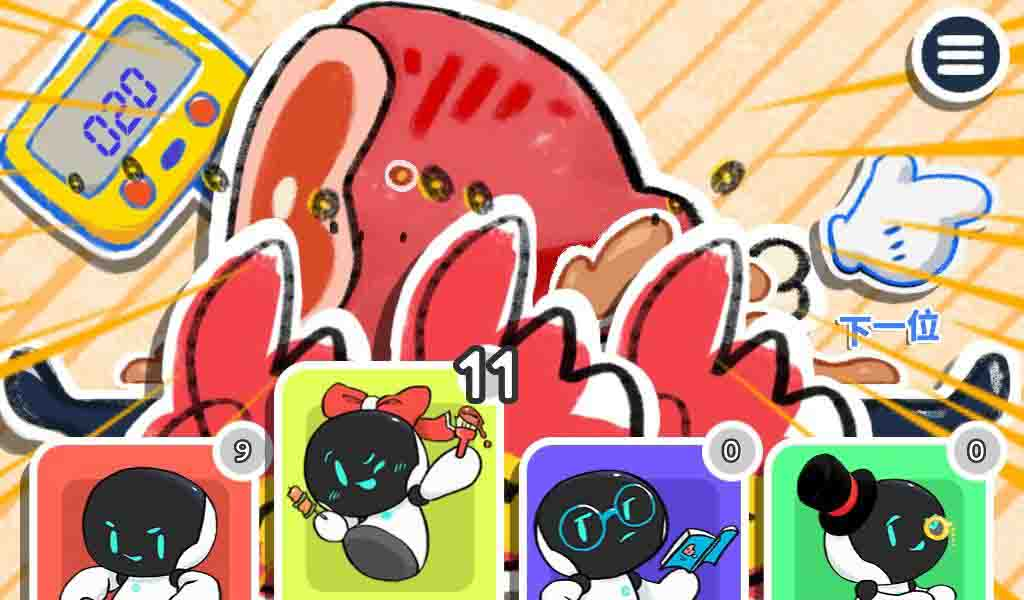
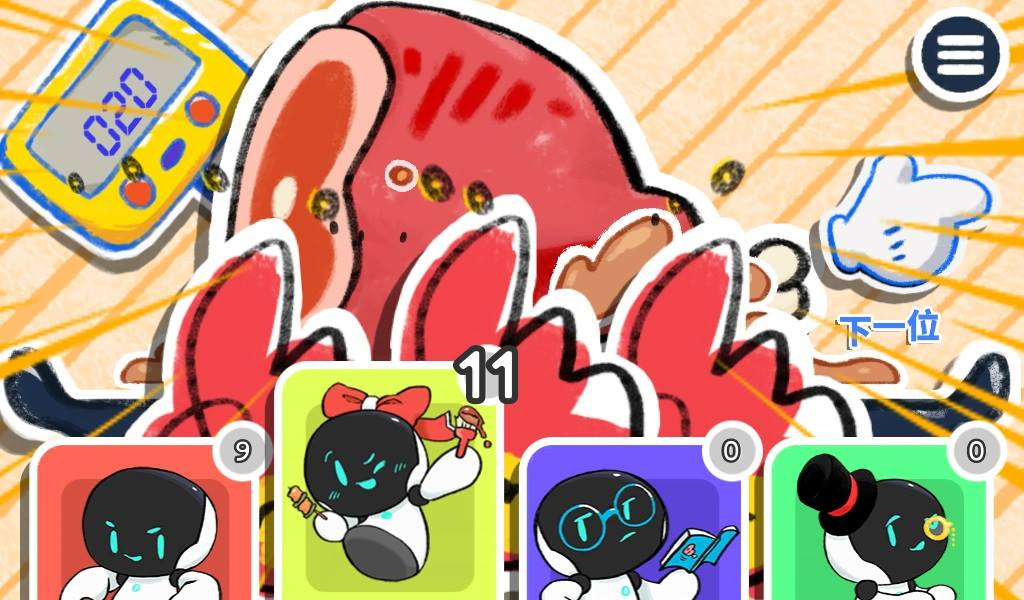
Site updated: 2019-04-08 00:09:40

diff --git a/2019/03/19/帶你上天堂/index.html b/2019/03/19/帶你上天堂/index.html
@@ -95,9 +95,9 @@
 <meta property="og:image" content="https://magicdogguo.github.io/2019/03/19/帶你上天堂/08.jpg">
 <meta property="og:image" content="https://magicdogguo.github.io/2019/03/19/帶你上天堂/10.jpg">
 <meta property="og:image" content="https://magicdogguo.github.io/2019/03/19/帶你上天堂/11.jpg">
-<meta property="og:image" content="https://magicdogguo.github.io/2019/03/19/帶你上天堂/14.jpg">
 <meta property="og:image" content="https://magicdogguo.github.io/2019/03/19/帶你上天堂/02.jpg">
-<meta property="og:updated_time" content="2019-04-07T14:49:27.598Z">
+<meta property="og:image" content="https://magicdogguo.github.io/2019/03/19/帶你上天堂/14.jpg">
+<meta property="og:updated_time" content="2019-04-07T15:47:43.550Z">
 <meta name="twitter:card" content="summary">
 <meta name="twitter:title" content="帶你上天堂">
 <meta name="twitter:description" content="VR短片">
@@ -371,8 +371,8 @@
 <img src="/2019/03/19/帶你上天堂/08.jpg">
 <img src="/2019/03/19/帶你上天堂/10.jpg">
 <img src="/2019/03/19/帶你上天堂/11.jpg">
-<img src="/2019/03/19/帶你上天堂/14.jpg">
 <img src="/2019/03/19/帶你上天堂/02.jpg">
+<img src="/2019/03/19/帶你上天堂/14.jpg">
 <h5 id="Description"><a href="#Description" class="headerlink" title="Description"></a>Description</h5><p>『以VR體驗「靈魂出竅」華麗旅程，一窺「台式葬禮、死後世界」的巨大化奇觀〈帶你上天堂〉，藉由神乎其技的攝影機運動，模擬肉體投胎轉世的過程，灼灼燃燒的火山與坍塌冰川疾速往眼前壓迫而來的驚異感受，絕對會帶給觀眾如「高空彈跳」般的感官重擊，更見證自己葬禮，打造瞳孔放大的迷幻快感』</p>
 <p>承接原金國際的外包案，專案導演為金馬獎導演楊雅喆，目的為在高雄電影節的VR FILM LAB展出。</p>
 <p>利用Unity與HTV vive製作的VR短片，與同學兩人共同製作，為專案的主要負責人，負責項目為火山場景佈置、particle特效製作、Shader特效調整。</p>

diff --git a/2019/02/20/燙手巴比酷/index.html b/2019/02/20/燙手巴比酷/index.html
@@ -93,7 +93,7 @@
 <meta property="og:image" content="https://magicdogguo.github.io/2019/02/20/燙手巴比酷/03.jpg">
 <meta property="og:image" content="https://magicdogguo.github.io/2019/02/20/燙手巴比酷/07.jpg">
 <meta property="og:image" content="https://magicdogguo.github.io/2019/02/20/燙手巴比酷/08.jpg">
-<meta property="og:updated_time" content="2019-04-07T14:50:41.202Z">
+<meta property="og:updated_time" content="2019-04-07T16:09:27.712Z">
 <meta name="twitter:card" content="summary">
 <meta name="twitter:title" content="燙手巴比酷">
 <meta name="twitter:description" content="凱比機器人/Android遊戲">
@@ -362,6 +362,10 @@
         <h3 id="凱比機器人-Android遊戲"><a href="#凱比機器人-Android遊戲" class="headerlink" title="凱比機器人/Android遊戲"></a>凱比機器人/Android遊戲</h3><img src="/2019/02/20/燙手巴比酷/01.jpg">
 <a id="more"></a>
 <img src="/2019/02/20/燙手巴比酷/02.jpg">
+
+
+
+
 
 
 <img src="/2019/02/20/燙手巴比酷/03.jpg">

diff --git a/css/main.css b/css/main.css
@@ -1822,7 +1822,7 @@ pre .javascript .function {
   width: 4px;
   height: 4px;
   border-radius: 50%;
-  background: #8bfbff;
+  background: #fafce4;
 }
 .links-of-blogroll {
   font-size: 13px;
